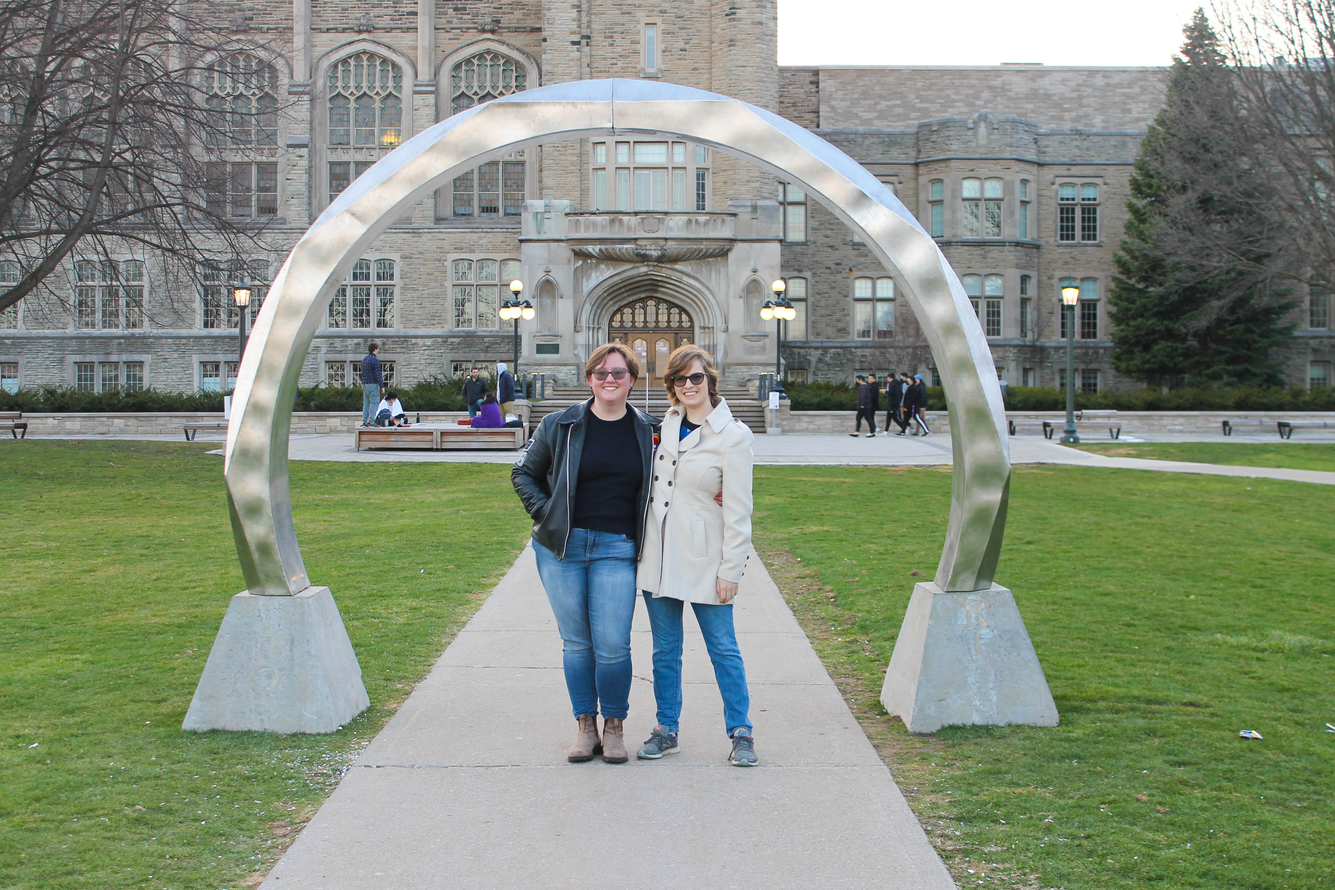
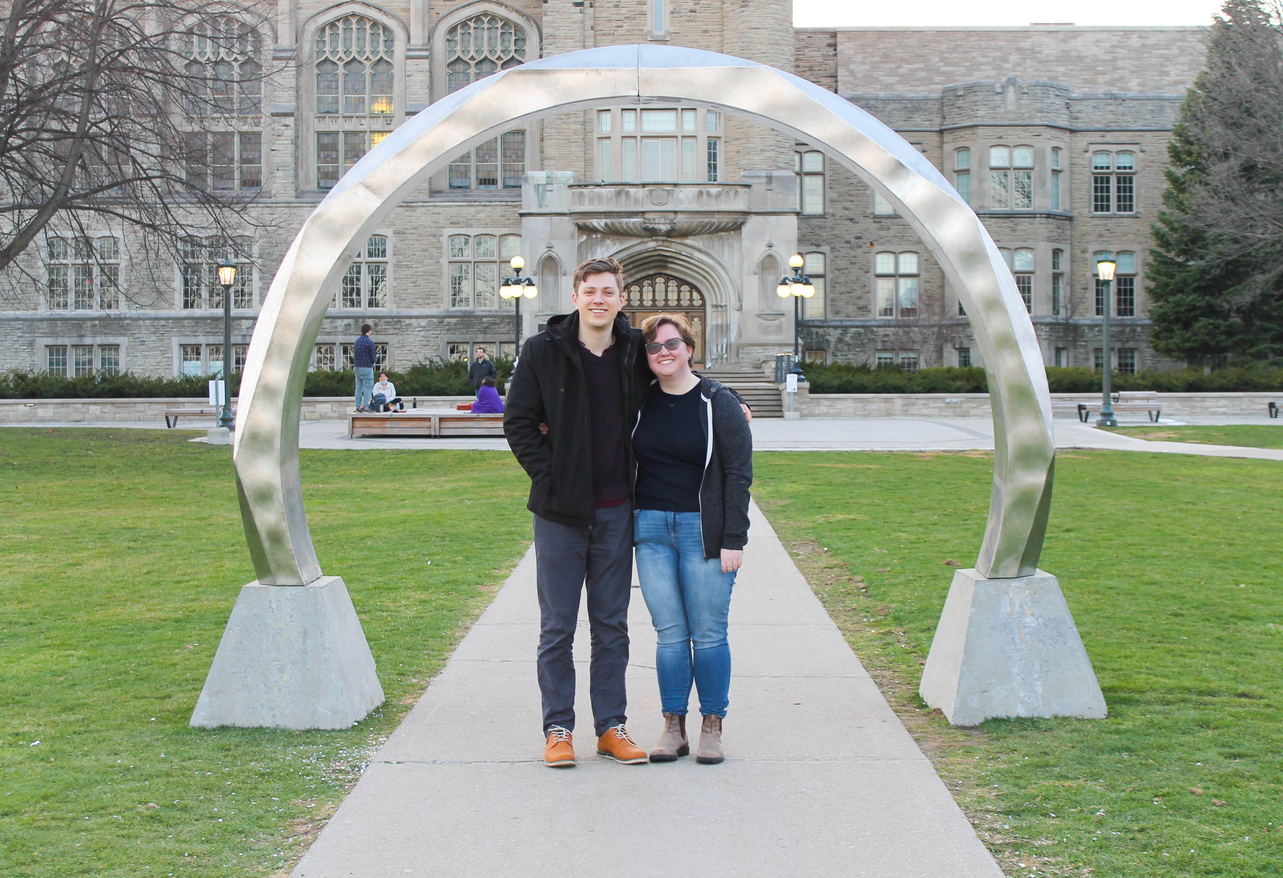
added file for resume css and replaced image

diff --git a/src/components/pages/Resume.js b/src/components/pages/Resume.js
@@ -1,4 +1,5 @@
 import React from 'react';
+import './Resume.css';
 
 function Resume() {
     return (

diff --git a/src/components/pages/Resume.css b/src/components/pages/Resume.css
@@ -1,0 +1,1 @@
+h1 {color: pink;}
